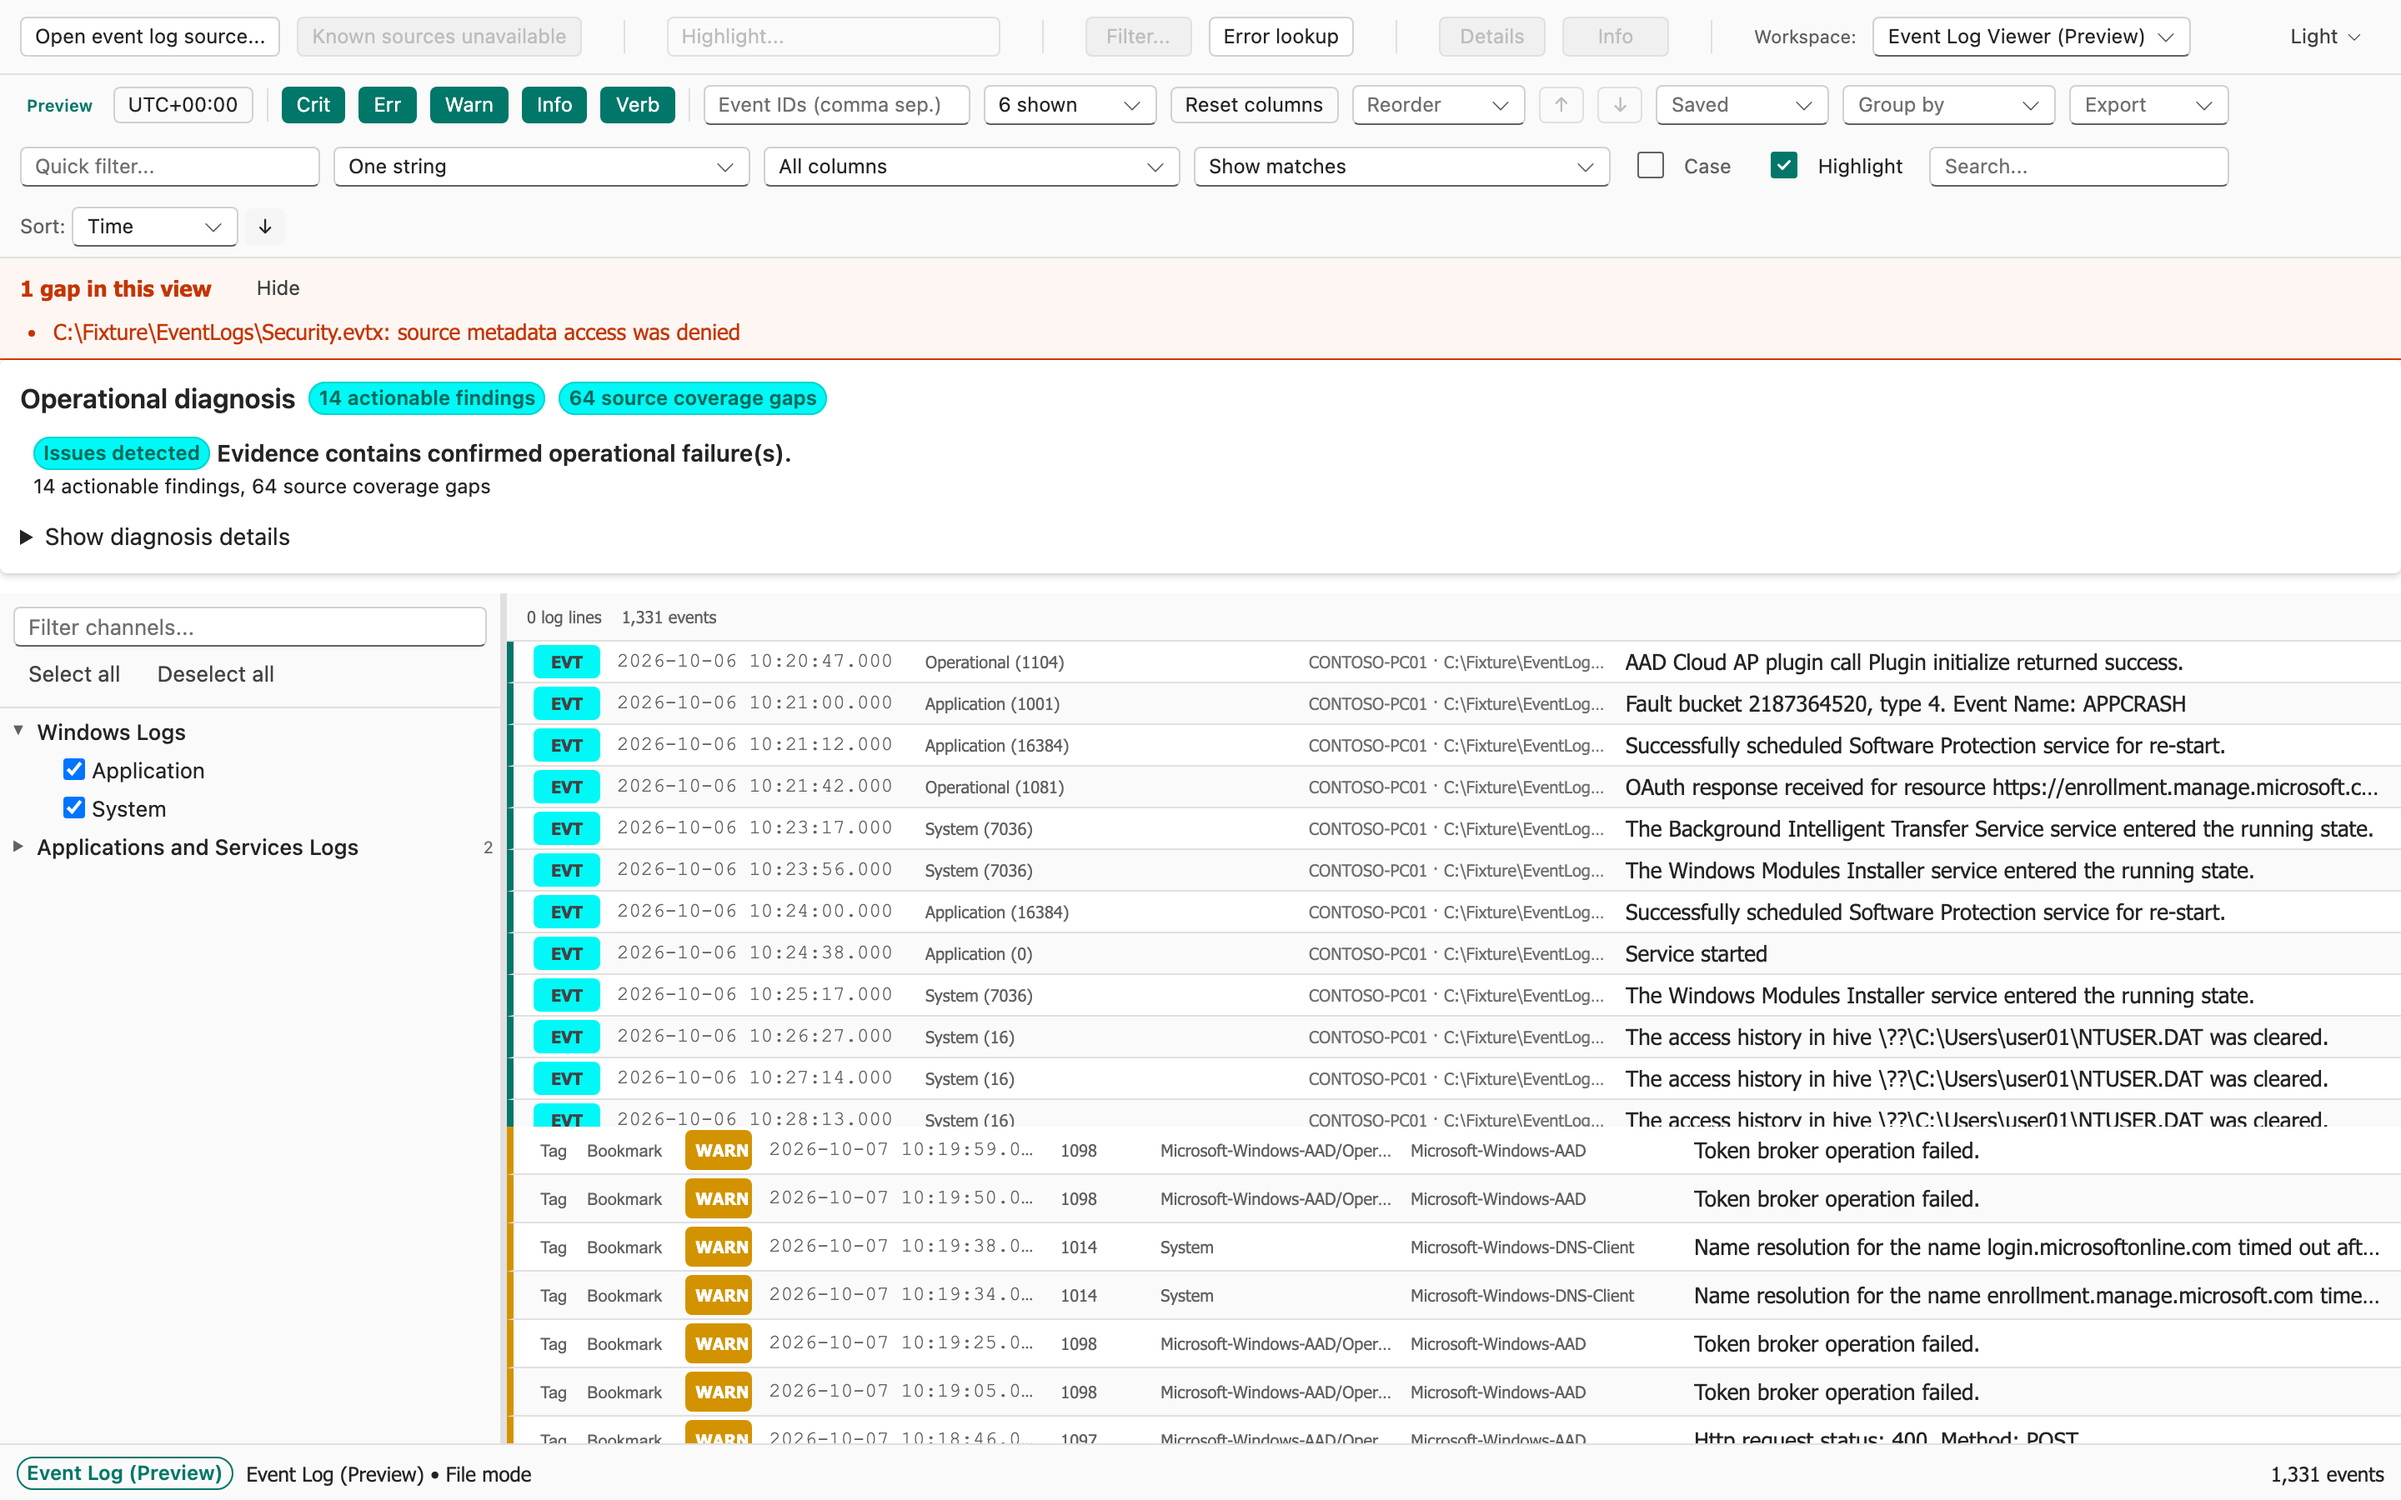
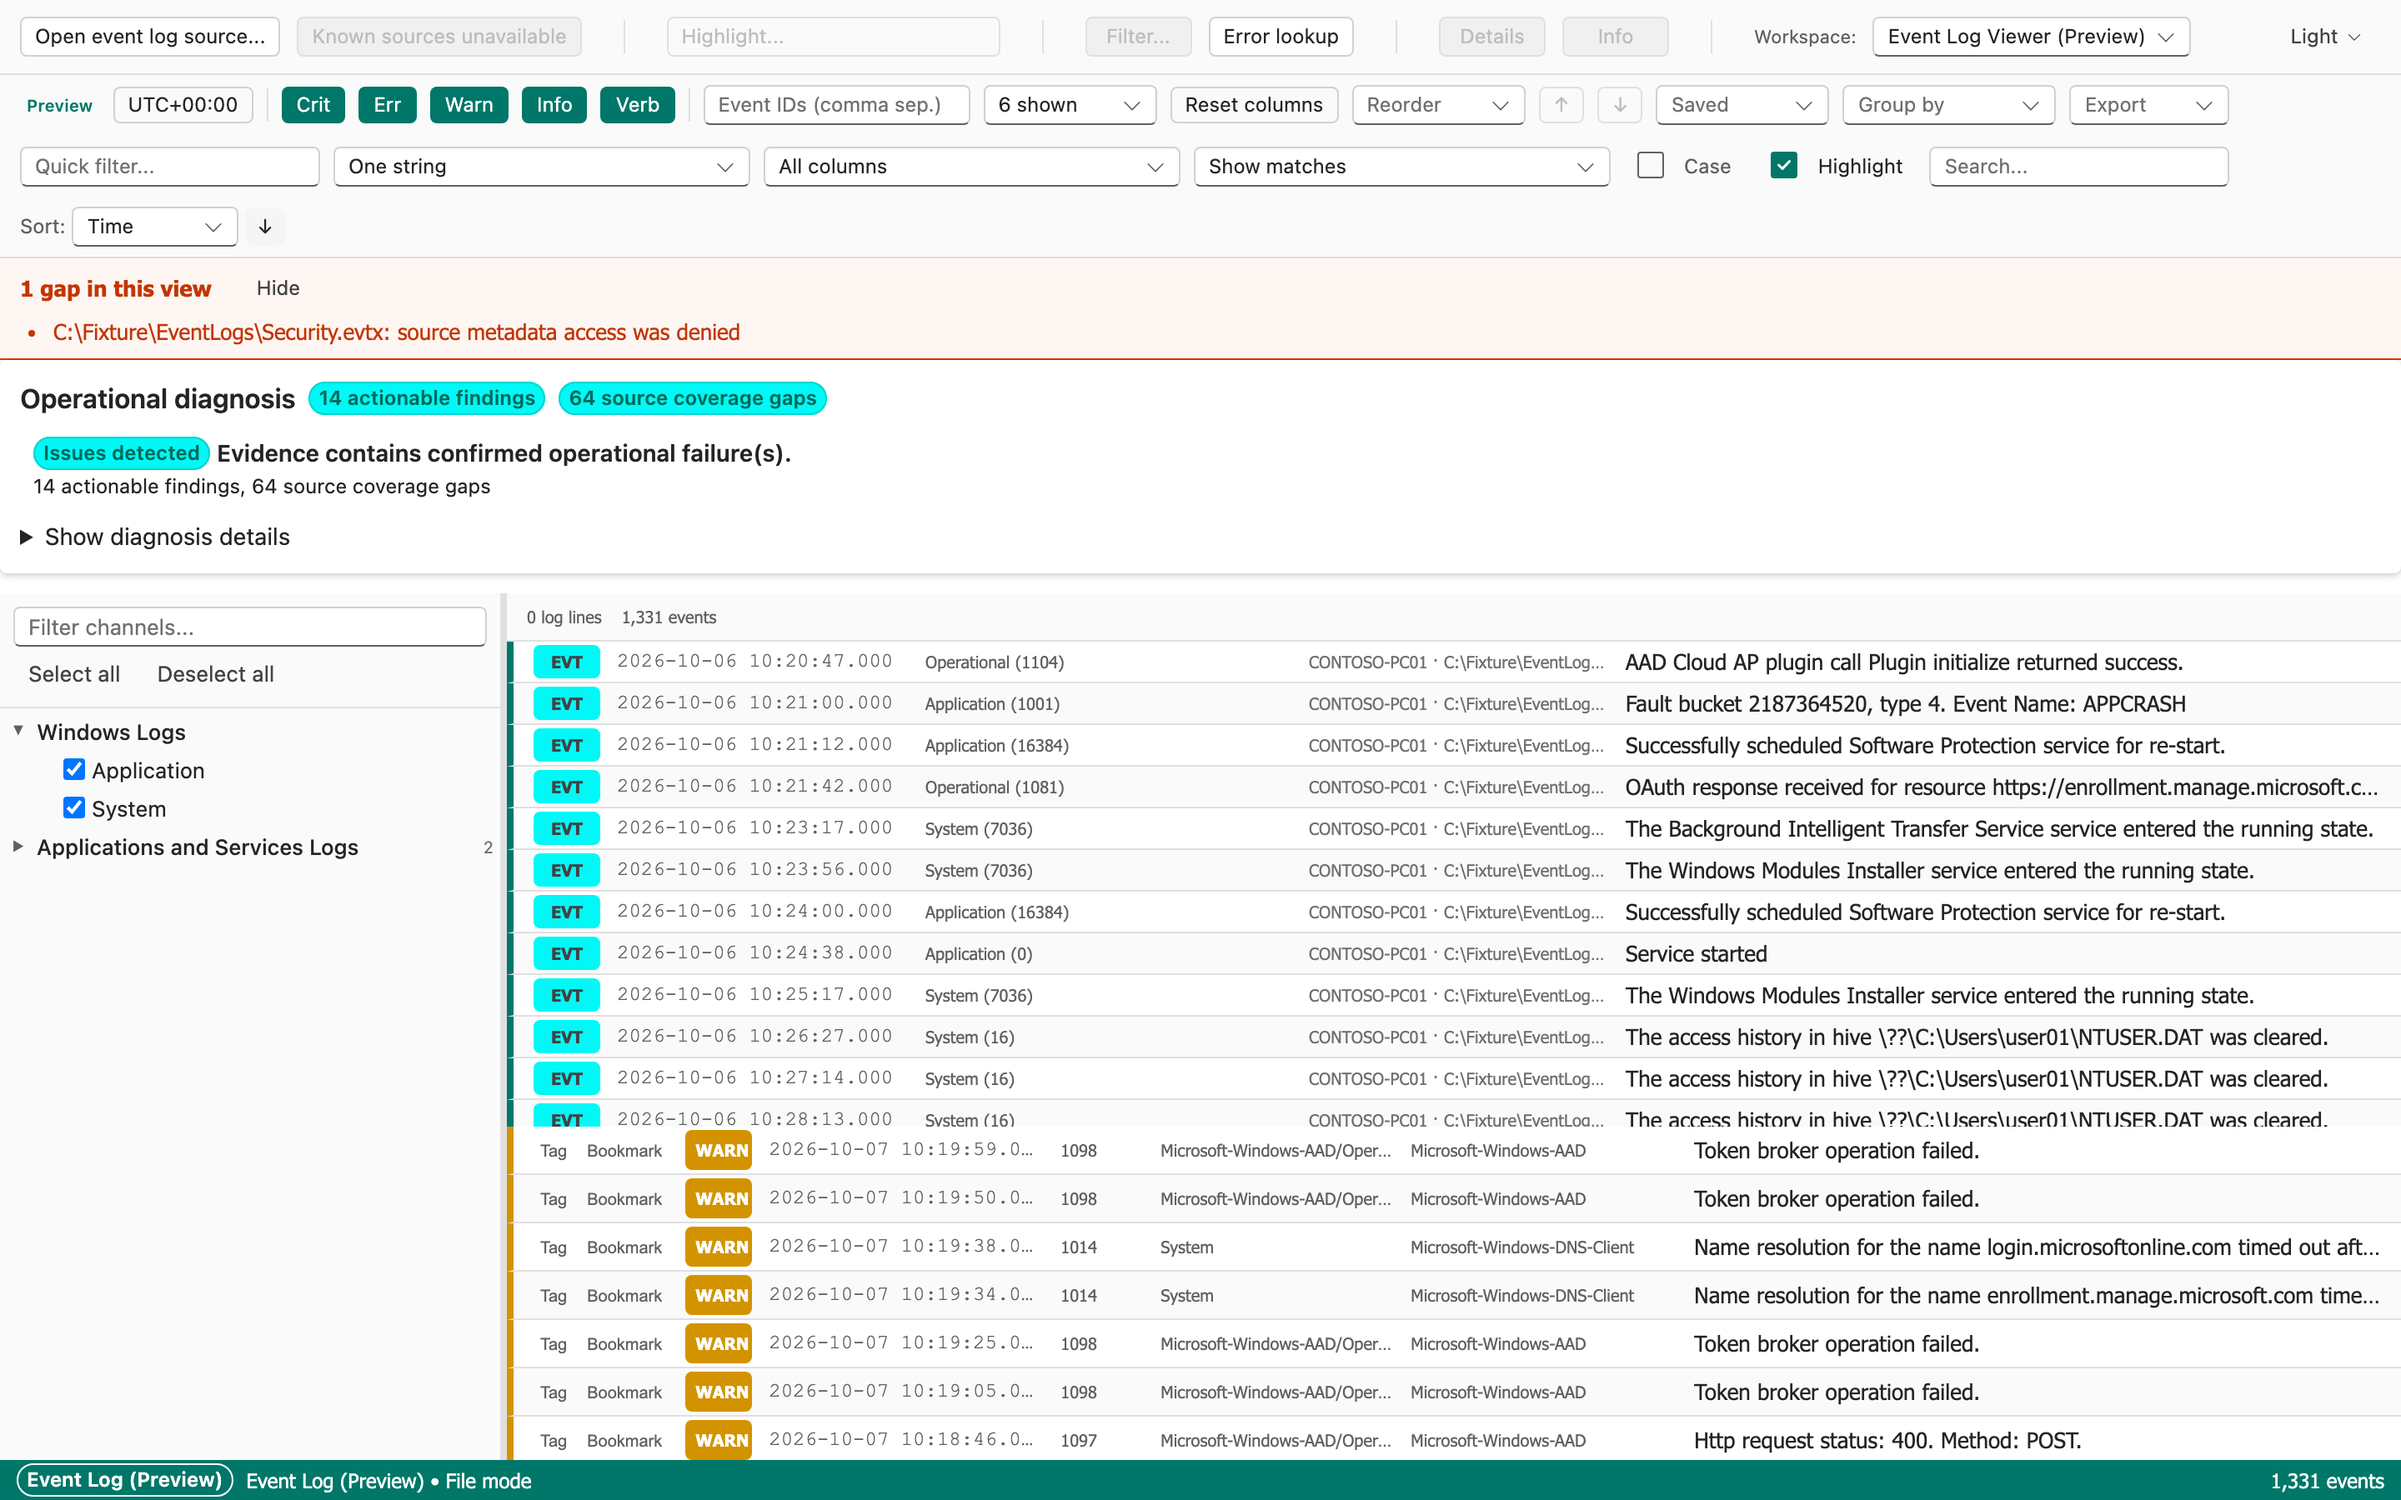
test(e2e): host-path guard before the Event Logs captures; recapture with the status bar (#828)

Changed region(s): [[0.0, 0.9644, 1.0, 1.0]]

diff --git a/e2e/screenshots/event-logs.spec.ts b/e2e/screenshots/event-logs.spec.ts
@@ -32,6 +32,7 @@
 import path from "node:path";
 import { fileURLToPath } from "node:url";
 import { test, expect } from "../fixtures";
+import { assertNoHostPaths } from "../fixtures/host-path-guard";
 import {
   buildParseResult,
   buildSourceManifest,
@@ -233,6 +234,7 @@ test.describe("event-logs screenshots", () => {
 
   test("event-logs table", async ({ page }) => {
     await expect(page.getByRole("region", { name: "Event log details" })).toHaveCount(0);
+    await assertNoHostPaths(page);
     await page.screenshot({
       path: outPath("event-logs-table.png"),
       animations: "disabled",
@@ -254,6 +256,7 @@ test.describe("event-logs screenshots", () => {
     await expect(
       page.getByRole("region", { name: "Event log details" }),
     ).toContainText("Installation failed.");
+    await assertNoHostPaths(page);
     await page.screenshot({
       path: outPath("event-logs-selected.png"),
       animations: "disabled",
